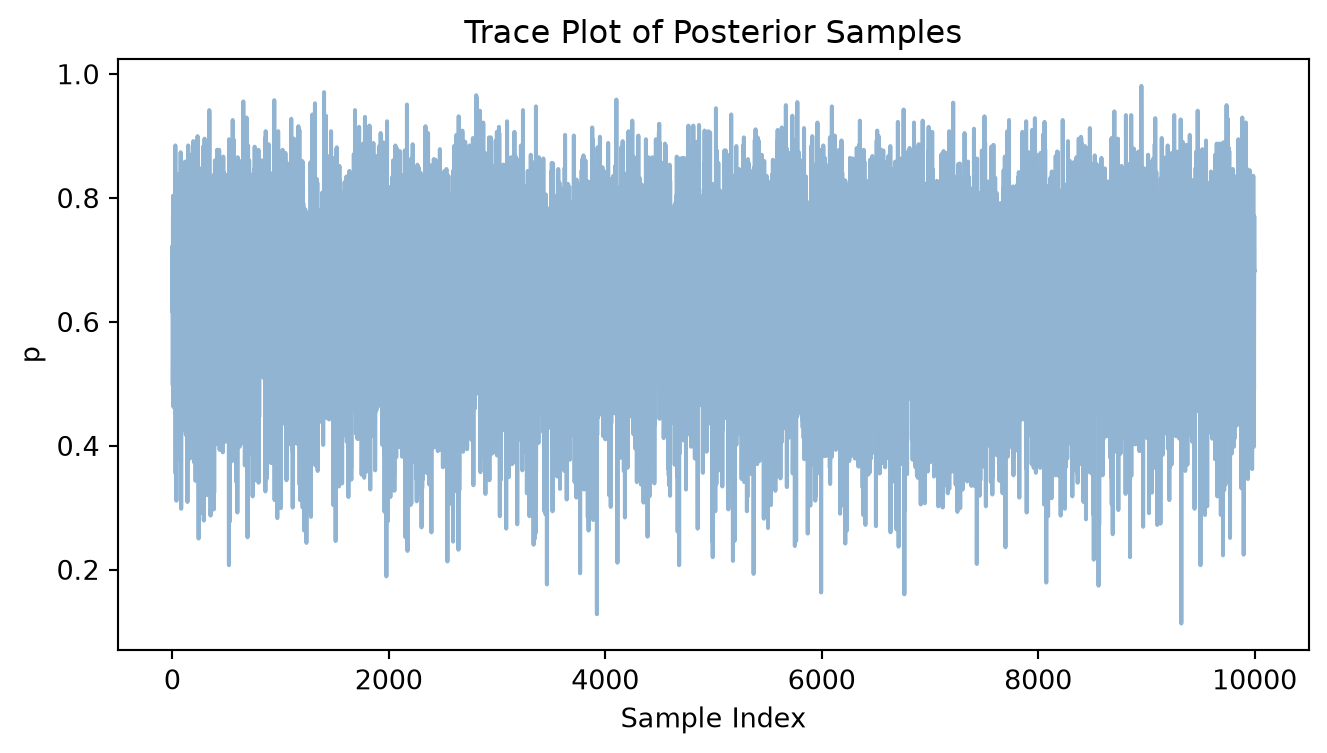
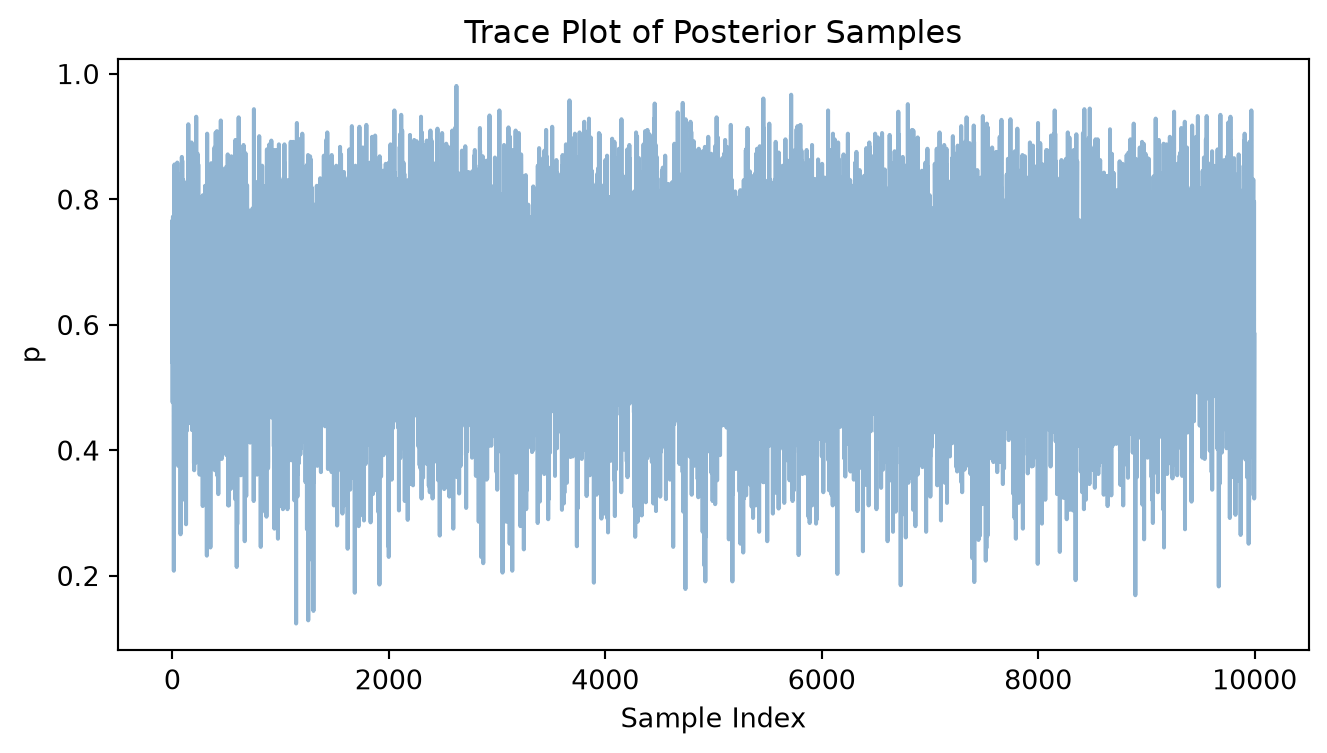
Formatting for Joint Distributions

diff --git a/docs/lectures/joint_distributions.html b/docs/lectures/joint_distributions.html
@@ -390,7 +390,7 @@ window.Quarto = {
    
   <ul>
   <li><a href="#joint-distributions" id="toc-joint-distributions" class="nav-link active" data-scroll-target="#joint-distributions">Joint Distributions</a></li>
-  <li><a href="#joint-pmf-pdf" id="toc-joint-pmf-pdf" class="nav-link" data-scroll-target="#joint-pmf-pdf">Joint PMF / PDF:</a></li>
+  <li><a href="#joint-pmf-pdf" id="toc-joint-pmf-pdf" class="nav-link" data-scroll-target="#joint-pmf-pdf">Joint PMF / PDF</a></li>
   <li><a href="#joint-cdf" id="toc-joint-cdf" class="nav-link" data-scroll-target="#joint-cdf">Joint CDF</a></li>
   <li><a href="#expectations" id="toc-expectations" class="nav-link" data-scroll-target="#expectations">Expectations</a>
   <ul class="collapse">
@@ -428,10 +428,10 @@ window.Quarto = {
 
 <section id="joint-distributions" class="level1">
 <h1>Joint Distributions</h1>
-<p>Jointly distributed random variables are for the scenarios where we are working with multiple random variables simultaneously rather than just one in isolation.</p>
+<p>Jointly distributed random variables are for the scenarios where we are working with multiple random variables simultaneously rather than just one in isolation. For simplicity, we will generally use two random variables in the definitions and examples below.</p>
 </section>
 <section id="joint-pmf-pdf" class="level1">
-<h1>Joint PMF / PDF:</h1>
+<h1>Joint PMF / PDF</h1>
 <p>For discrete variables, the joint Probability Mass Function is</p>
 <p><span class="math display">p_{X,Y}(x,y) = P(X=x, Y=y)</span></p>
 <p>It gives the probability that <span class="math inline">X</span> takes the value <span class="math inline">x</span> and <span class="math inline">Y</span> takes the value <span class="math inline">y</span> at the same time.</p>
@@ -445,9 +445,11 @@ window.Quarto = {
 </section>
 <section id="expectations" class="level1">
 <h1>Expectations</h1>
-<p><span class="math inline">E[g(X,Y)]=</span> is the extension of calculating the expectation of a function, now with two variables.</p>
-<p>Discrete: <span class="math inline">E[g(X,Y)] = \sum_{x}\sum_{y} g(x,y)p_{X,Y}(x,y)</span></p>
-<p>Continuous: <span class="math inline">E[g(X,Y)] = \int_{-\infty}^{\infty}\int_{-\infty}^{\infty} g(x,y)f_{X,Y}(x,y)dxdy</span></p>
+<p><span class="math inline">E[g(X,Y)]</span> is the extension of calculating the expectation of a function, now with two variables.</p>
+<ul>
+<li><p><strong>Discrete</strong>: <span class="math inline">E[g(X,Y)] = \sum_{x}\sum_{y} g(x,y)p_{X,Y}(x,y)</span></p></li>
+<li><p><strong>Continuous</strong>: <span class="math inline">E[g(X,Y)] = \int_{-\infty}^{\infty}\int_{-\infty}^{\infty} g(x,y)f_{X,Y}(x,y)dxdy</span></p></li>
+</ul>
 <section id="the-linearity-of-expectation" class="level2">
 <h2 class="anchored" data-anchor-id="the-linearity-of-expectation">The Linearity of Expectation</h2>
 <p>The expectation of a sum is always equal to the sum of the expectations:: <span class="math display">E\left[\sum_{i=1}^{N}a_{i}X_{i}\right] = \sum_{i=1}^{N}a_{i}E[X_{i}]</span></p>
@@ -458,6 +460,8 @@ window.Quarto = {
 <p>Note that this property holds true whether the random variables are independent or not.</p>
 <div class="example-box">
 <p>What is the expected value of the sum obtained when 10 fair dice are rolled?</p>
+<p><br>
+</p>
 <p>Trying to find the probability distribution for the sum of 10 dice (which ranges from 10 to 60) is very complicated. Instead, we define the total sum <span class="math inline">X</span> as the addition of 10 individual random variables: <span class="math display">X = X_1 + X_2 + \dots + X_{10}</span></p>
 <p>Here, <span class="math inline">X_i</span> represents the outcome of the <span class="math inline">i</span>-th die roll.</p>
 <p>Recall that the expected value of a single die roll is <span class="math inline">3.5</span>.</p>
@@ -467,6 +471,8 @@ window.Quarto = {
 </div>
 <div class="example-box">
 <p>At a party, <span class="math inline">N</span> men throw their hats into the center of a room. The hats are mixed up, each man randomly selects one. What is the expected number of men who select their own hat?</p>
+<p><br>
+</p>
 <p>Trying to calculate the exact probability of 0, 1, 2, or <span class="math inline">N</span> men getting their hats requires complex combinatorics (derangements).</p>
 <p>Instead, we use an idea called an <strong>Indicator Random Variable</strong>. Indicators (sometimes called dummy variables) are a special type of variable that takes on <span class="math inline">1</span> if some condition is met and <span class="math inline">0</span> otherwise.</p>
 <p>Let <span class="math inline">I_i</span> be an indicator for the <span class="math inline">i</span>-th man:</p>
@@ -478,7 +484,7 @@ window.Quarto = {
 <p><span class="math display">X = I_1 + I_2 + \dots + I_N</span></p>
 <p>To find the expected value of an indicator variable, we only need to find the probability of the event occurring.</p>
 <p>Since the hats are assumed to be random (that is, uniformly and arbitrarily selected), the chance that man <span class="math inline">i</span> grabs his specific hat out of the pile of <span class="math inline">N</span> hats is <span class="math inline">1/N</span>.</p>
-<p>Therefore, <span class="math inline">E[I_i] = 1/N</span>.</p>
+<p>Therefore, <span class="math inline">E[I_i] = \frac{1}{N}</span>.</p>
 <p>Now we apply linearity of expectation.</p>
 <p>Despite that the variables are not independent (if man 1 grabs man 2’s hat, man 2’s probability is affected), the linearity of expectation is not affected by this.</p>
 <p><span class="math display">E[X] = E[I_1] + E[I_2] + \dots + E[I_N]</span></p>
@@ -522,15 +528,21 @@ window.Quarto = {
 </tr>
 </tbody>
 </table>
+<p><br>
+</p>
 <p>To find the marginal distribution of <span class="math inline">X</span>, denoted <span class="math inline">P(X=x)</span>, sum the probabilities across all possible values of <span class="math inline">Y</span> (summing across the rows):</p>
 <p><span class="math display">P(X=x) = \sum_{y} P(X=x, Y=y)</span></p>
 <p><span class="math inline">P(X=0) = 0.1 + 0.2 + 0.1 = \mathbf{0.4}</span></p>
 <p><span class="math inline">P(X=1) = 0.3 + 0.1 + 0.2 = \mathbf{0.6}</span></p>
+<p><br>
+</p>
 <p>To find the marginal distribution of <span class="math inline">Y</span>, denoted <span class="math inline">P(Y=y)</span>, sum the probabilities across all possible values of <span class="math inline">X</span> (summing down the columns):</p>
 <p><span class="math display">P(Y=y) = \sum_{x} P(X=x, Y=y)</span></p>
 <p><span class="math inline">P(Y=1) = 0.1 + 0.3 = \mathbf{0.4}</span></p>
 <p><span class="math inline">P(Y=2) = 0.2 + 0.1 = \mathbf{0.3}</span></p>
 <p><span class="math inline">P(Y=3) = 0.1 + 0.2 = \mathbf{0.3}</span></p>
+<p><br>
+</p>
 <p>Note that both marginal distributions sum to 1.0, confirming they are valid probability distributions.</p>
 </section>
 <section id="continuous-variables" class="level2">

diff --git a/docs/lectures/chapter3.html b/docs/lectures/chapter3.html
@@ -418,7 +418,7 @@ pre > code.sourceCode > span > a:first-child::before { text-decoration: underlin
 <section id="section" class="level1">
 <h1>3.1</h1>
 <p>Here is the posterior for the globe tossing example from chapter 2, computed using the grid approximation method:</p>
-<div id="1e9c0816" class="cell" data-execution_count="1">
+<div id="92eb560b" class="cell" data-execution_count="1">
 <div class="code-copy-outer-scaffold"><div class="sourceCode cell-code" id="cb1"><pre class="sourceCode python code-with-copy"><code class="sourceCode python"><span id="cb1-1"><a href="#cb1-1" aria-hidden="true" tabindex="-1"></a><span class="im">import</span> numpy <span class="im">as</span> np</span>
 <span id="cb1-2"><a href="#cb1-2" aria-hidden="true" tabindex="-1"></a><span class="im">from</span> scipy.stats <span class="im">import</span> binom, gaussian_kde</span>
 <span id="cb1-3"><a href="#cb1-3" aria-hidden="true" tabindex="-1"></a></span>
@@ -432,11 +432,11 @@ pre > code.sourceCode > span > a:first-child::before { text-decoration: underlin
 <span id="cb1-11"><a href="#cb1-11" aria-hidden="true" tabindex="-1"></a>posterior <span class="op">=</span> posterior <span class="op">/</span> np.<span class="bu">sum</span>(posterior)</span></code></pre></div><button title="Copy to Clipboard" class="code-copy-button"><i class="bi"></i></button></div>
 </div>
 <p>We can draw 10,000 samples from the posterior distribution using the <code>np.random.choice()</code> function, which allows us to sample from a discrete distribution defined by the posterior probabilities.</p>
-<div id="ac87a6bb" class="cell" data-execution_count="2">
+<div id="4443f26e" class="cell" data-execution_count="2">
 <div class="code-copy-outer-scaffold"><div class="sourceCode cell-code" id="cb2"><pre class="sourceCode python code-with-copy"><code class="sourceCode python"><span id="cb2-1"><a href="#cb2-1" aria-hidden="true" tabindex="-1"></a>samples <span class="op">=</span> np.random.choice(p_grid, size<span class="op">=</span><span class="dv">10000</span>, replace<span class="op">=</span><span class="va">True</span>, p<span class="op">=</span>posterior)</span></code></pre></div><button title="Copy to Clipboard" class="code-copy-button"><i class="bi"></i></button></div>
 </div>
 <p>Plotting the samples gives us:</p>
-<div id="5169da11" class="cell" data-execution_count="3">
+<div id="283fe10d" class="cell" data-execution_count="3">
 <div class="code-copy-outer-scaffold"><div class="sourceCode cell-code" id="cb3"><pre class="sourceCode python code-with-copy"><code class="sourceCode python"><span id="cb3-1"><a href="#cb3-1" aria-hidden="true" tabindex="-1"></a><span class="im">import</span> matplotlib.pyplot <span class="im">as</span> plt</span>
 <span id="cb3-2"><a href="#cb3-2" aria-hidden="true" tabindex="-1"></a></span>
 <span id="cb3-3"><a href="#cb3-3" aria-hidden="true" tabindex="-1"></a>plt.figure(figsize<span class="op">=</span>(<span class="dv">8</span>, <span class="dv">4</span>))</span>
@@ -454,7 +454,7 @@ pre > code.sourceCode > span > a:first-child::before { text-decoration: underlin
 </div>
 </div>
 <p>To see the shape of our estimated posterior distribution, we can use a kernel density estimate (KDE) to visualize the distribution of the samples:</p>
-<div id="24ed481e" class="cell" data-execution_count="4">
+<div id="62745440" class="cell" data-execution_count="4">
 <div class="code-copy-outer-scaffold"><div class="sourceCode cell-code" id="cb4"><pre class="sourceCode python code-with-copy"><code class="sourceCode python"><span id="cb4-1"><a href="#cb4-1" aria-hidden="true" tabindex="-1"></a><span class="kw">def</span> estimate_posterior_density(samples, grid<span class="op">=</span><span class="va">None</span>):</span>
 <span id="cb4-2"><a href="#cb4-2" aria-hidden="true" tabindex="-1"></a>    <span class="co">"""</span></span>
 <span id="cb4-3"><a href="#cb4-3" aria-hidden="true" tabindex="-1"></a><span class="co">    Estimates the density of posterior samples using Gaussian KDE.</span></span>

diff --git a/docs/lectures/random_variables.html b/docs/lectures/random_variables.html
@@ -493,7 +493,7 @@ window.Quarto = {
 <p><span class="math display">F(x) = \begin{cases}  0, &amp; x &lt; 1 \\ \frac{1}{2} = 0.5, &amp; 1 \le x &lt; 2 \\ \frac{1}{2} + \frac{1}{4} = \frac{3}{4} = 0.75, &amp; 2 \le x &lt; 3 \\ 1.0, &amp; x \ge 3  \end{cases}
 </span></p>
 <p>A plot of F(x) is:</p>
-<div id="9b3c4cb6" class="cell" data-execution_count="1">
+<div id="23c753cf" class="cell" data-execution_count="1">
 <details class="code-fold">
 <summary>Code</summary>
 <div class="code-copy-outer-scaffold"><div class="sourceCode cell-code" id="cb1"><pre class="sourceCode python code-with-copy"><code class="sourceCode python"><span id="cb1-1"><a href="#cb1-1" aria-hidden="true" tabindex="-1"></a><span class="im">import</span> matplotlib.pyplot <span class="im">as</span> plt</span>
